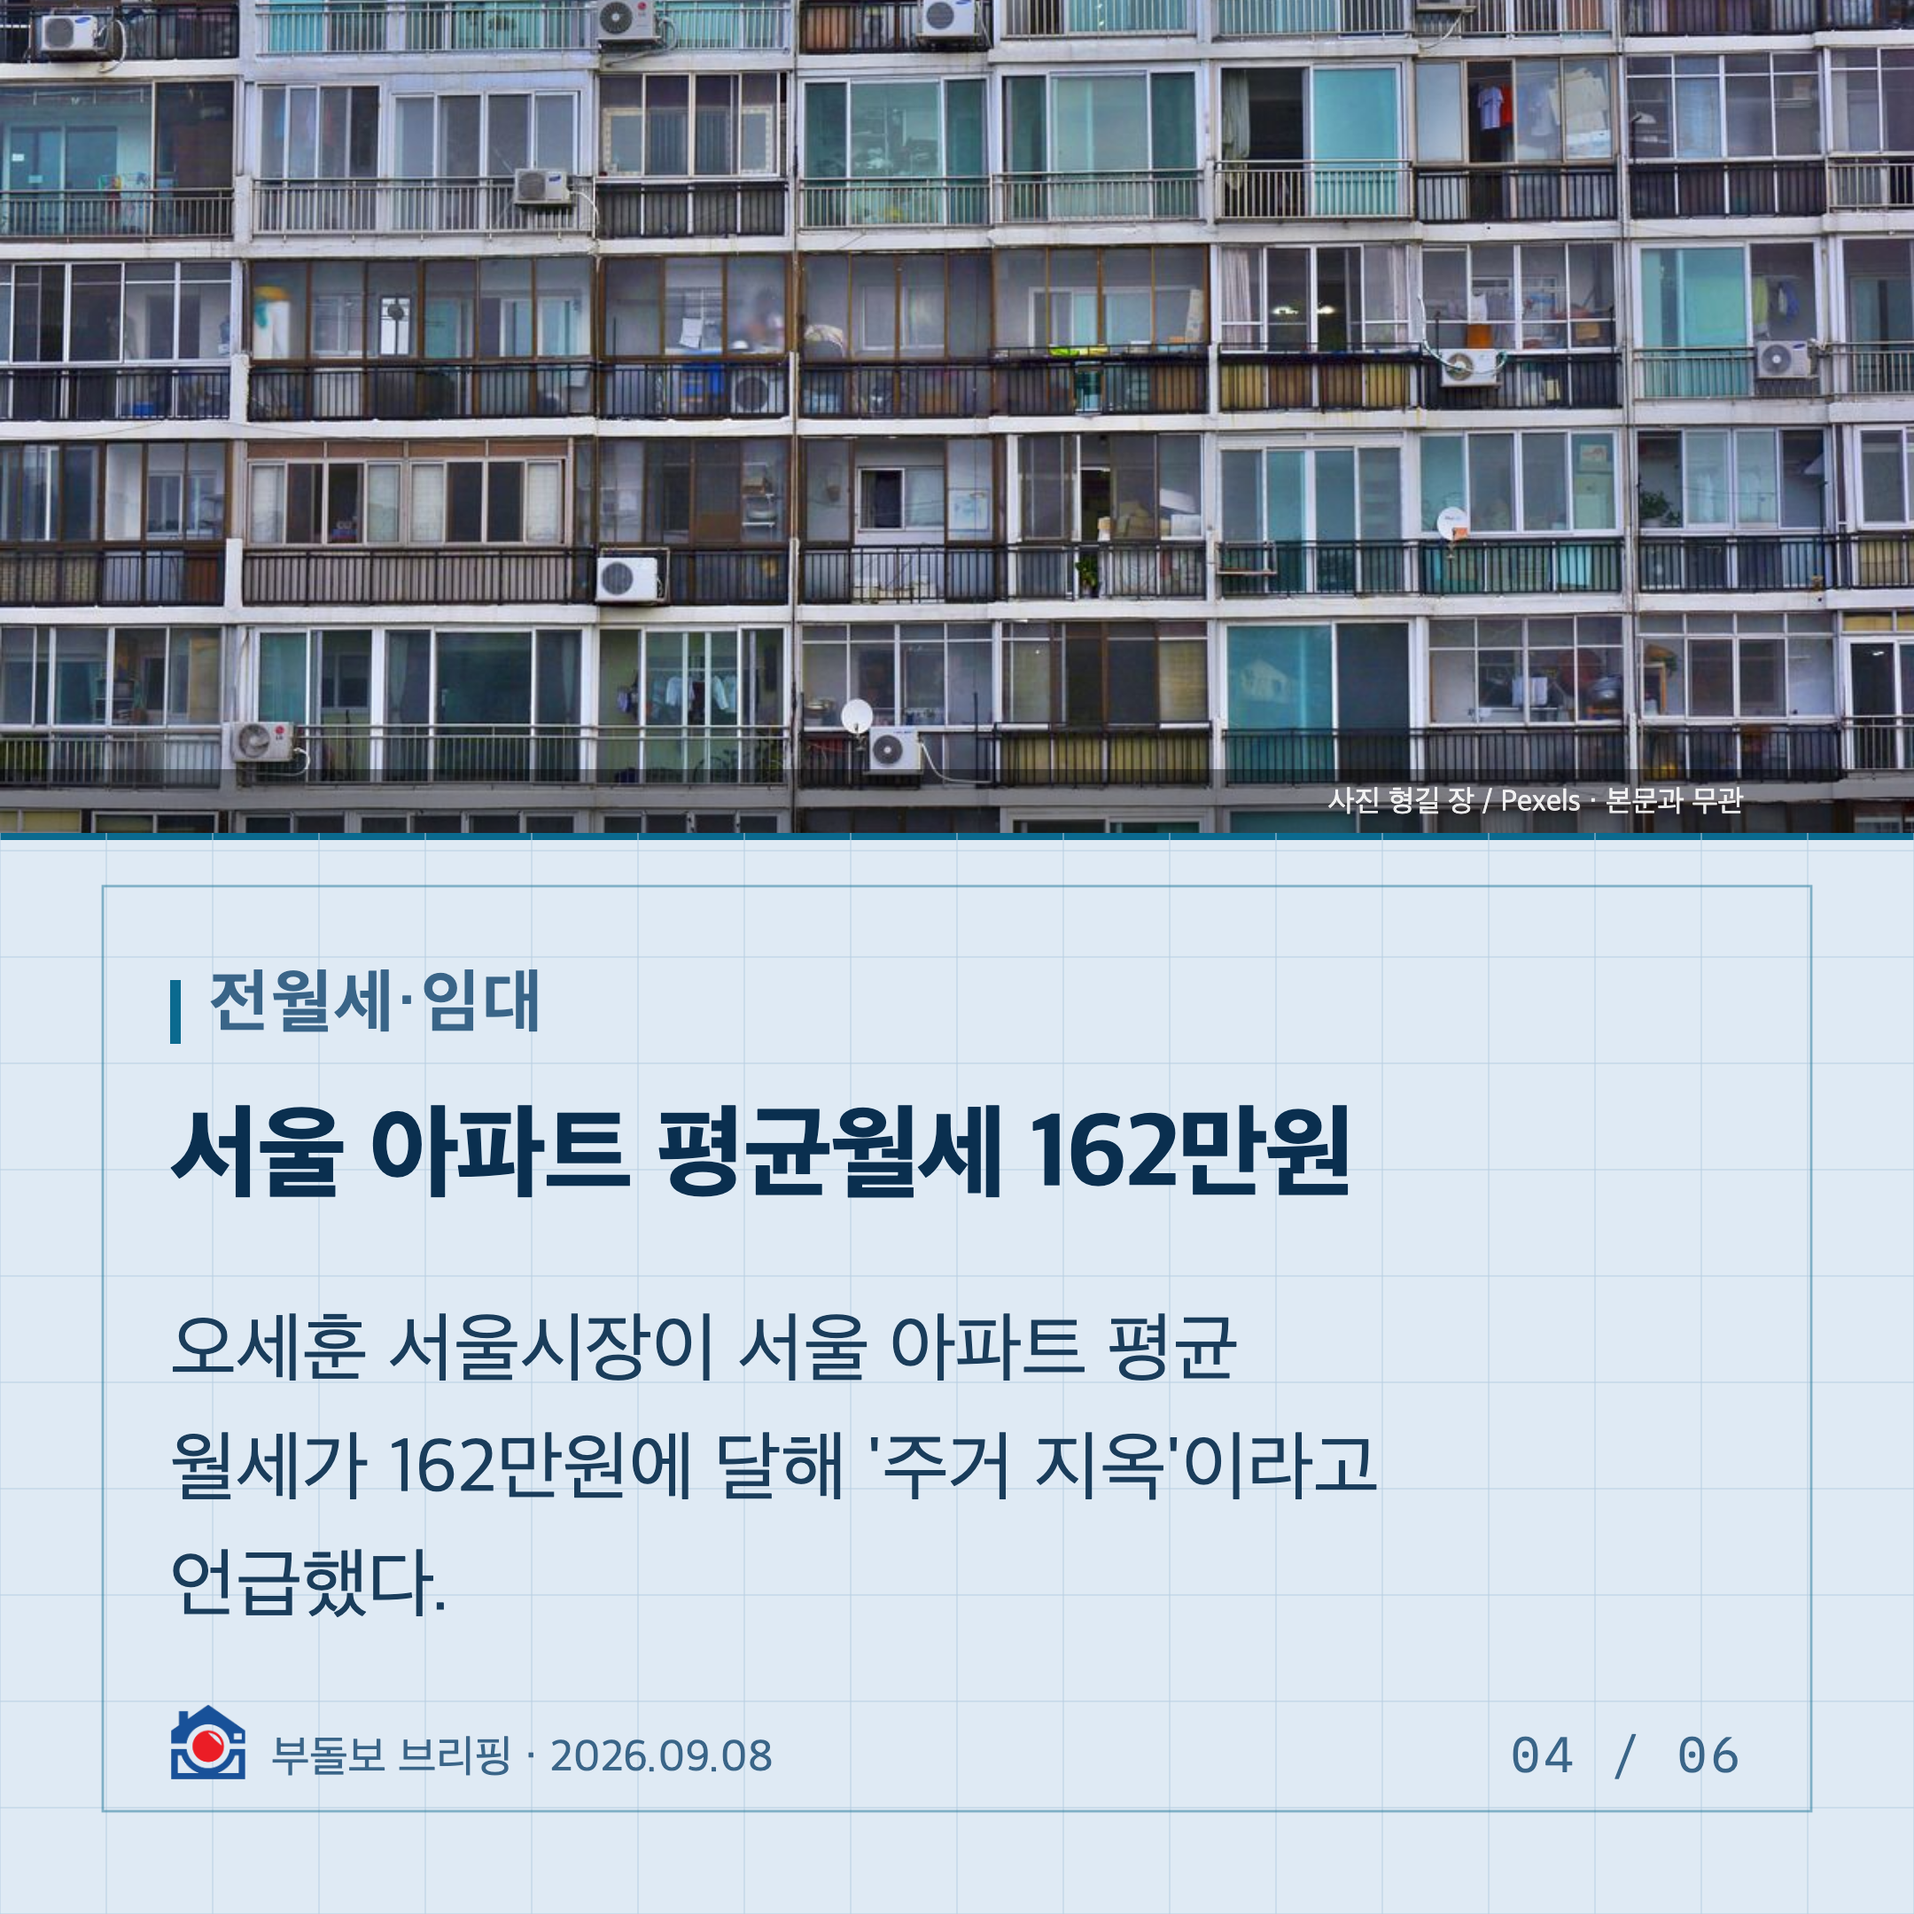
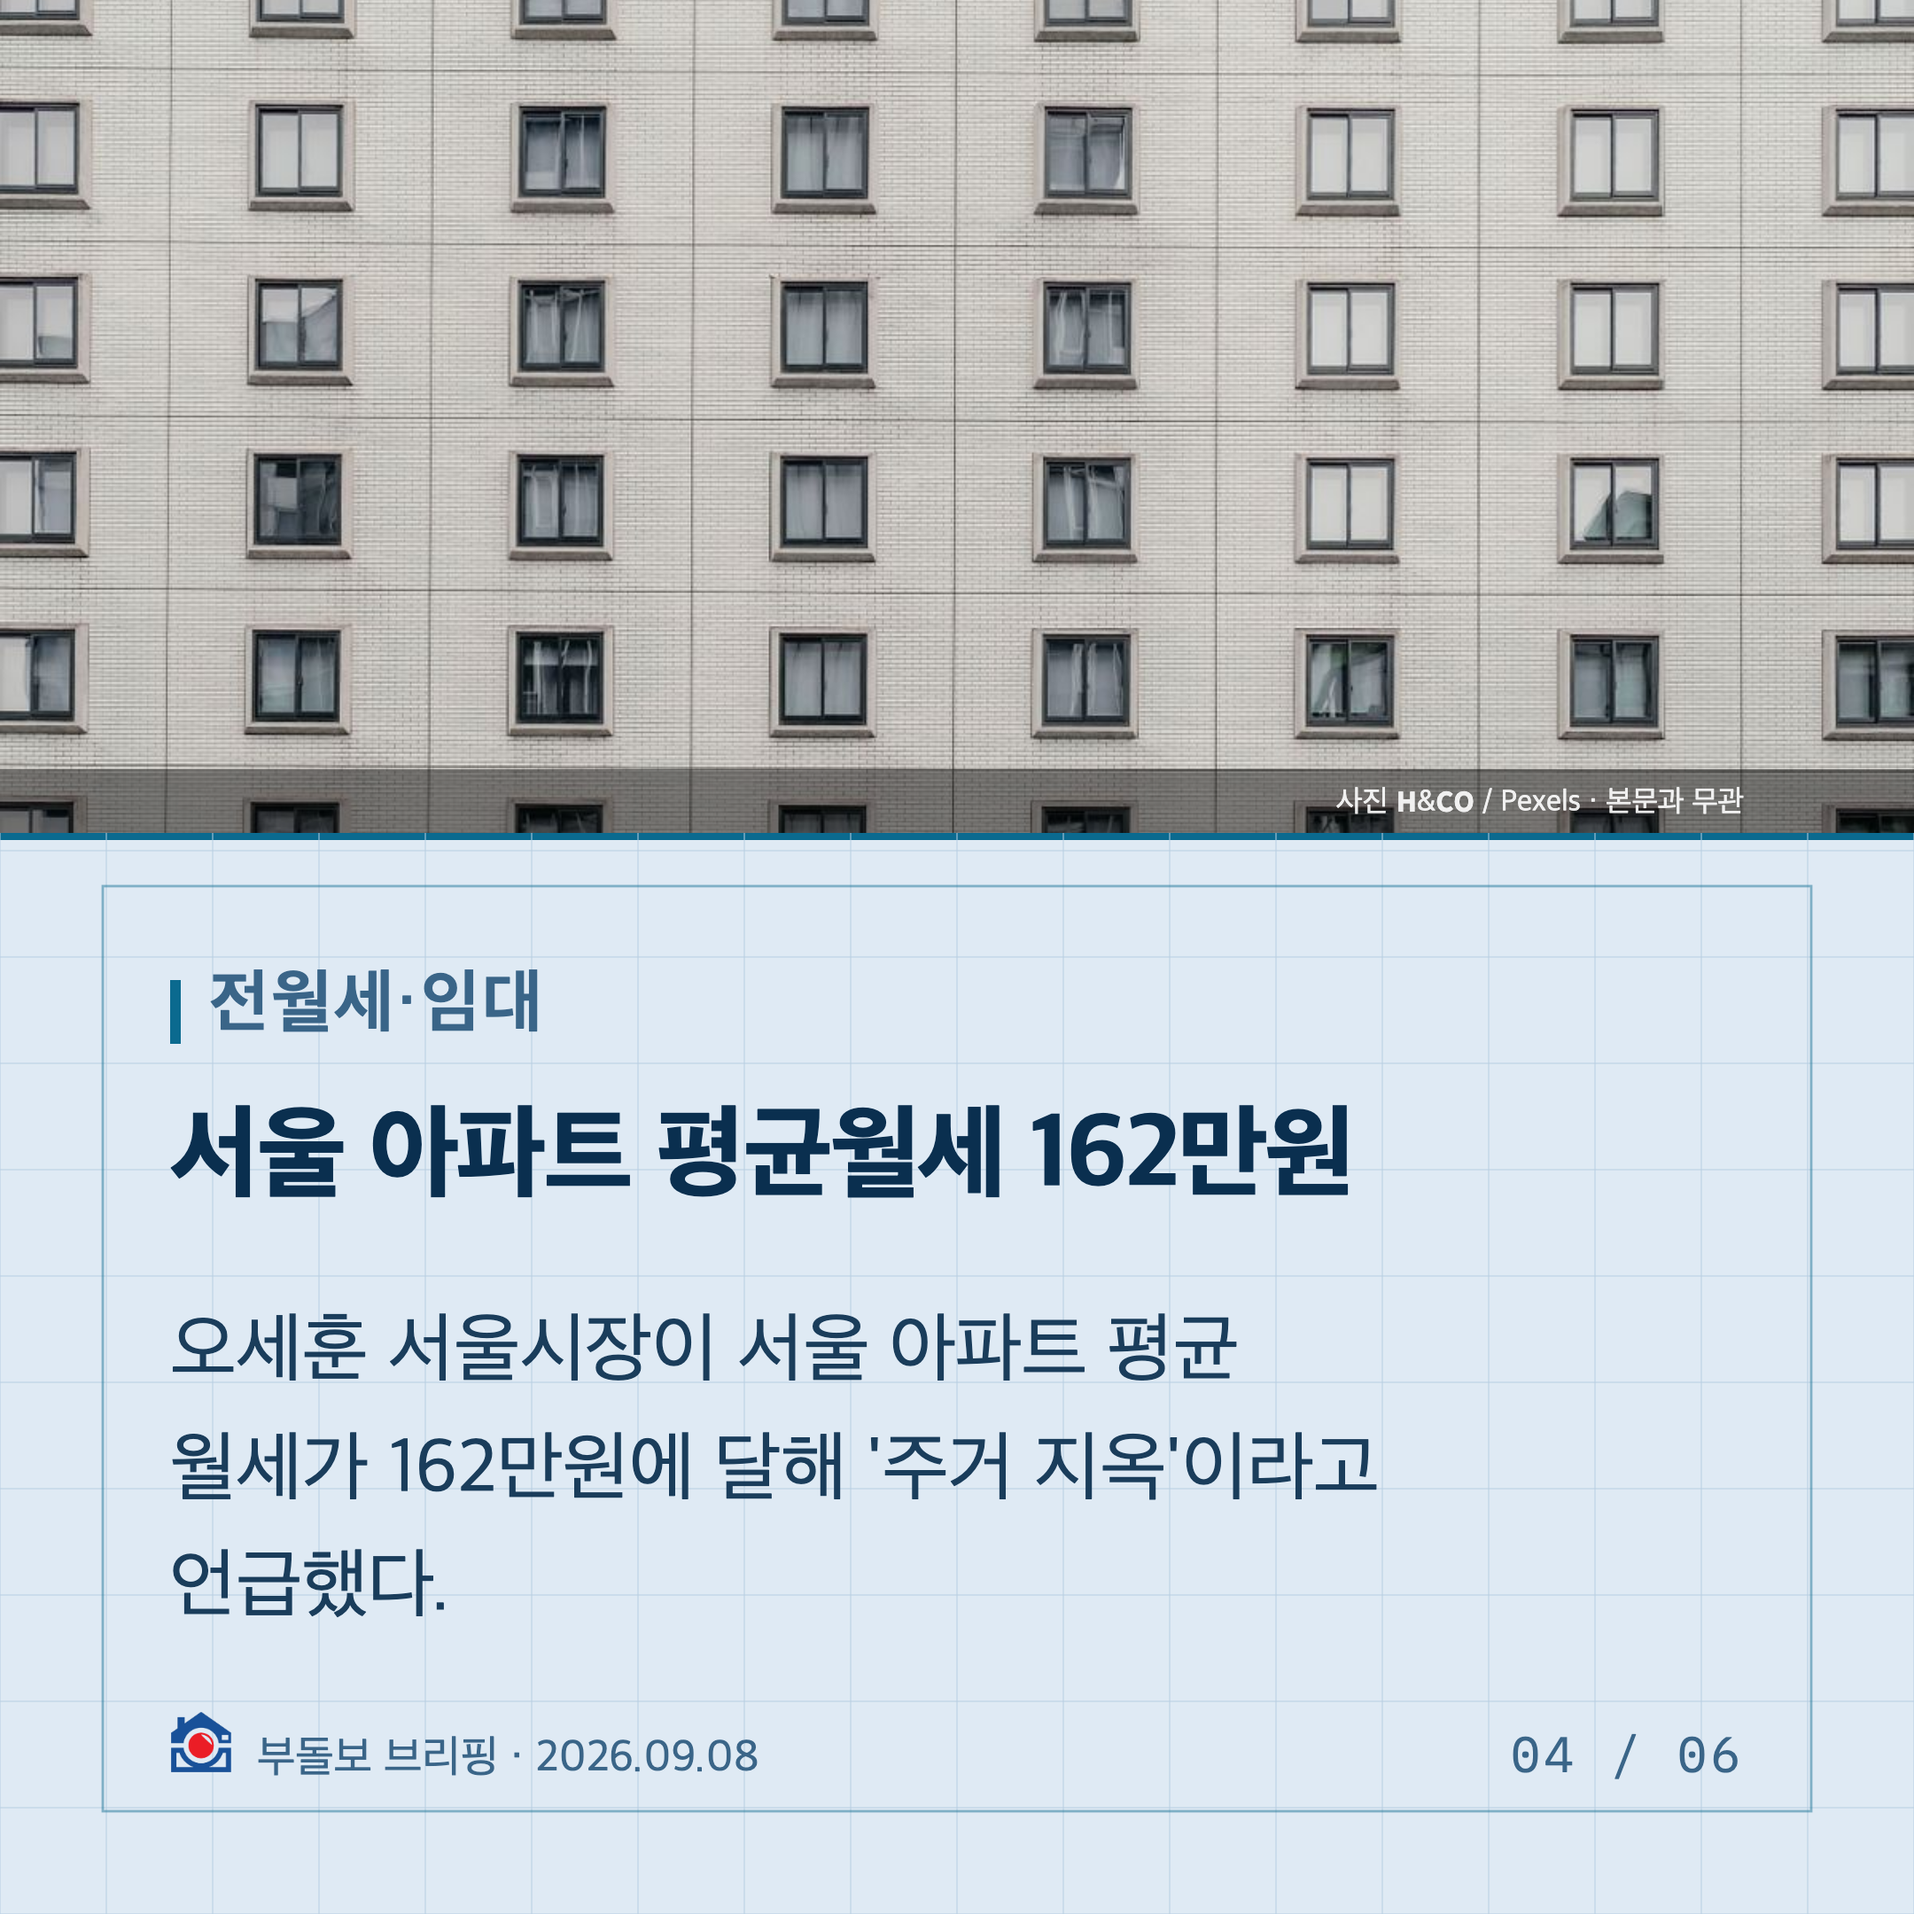
카드 머리글 로고를 80% 로 줄임
- 머리글 44px → 35px, 그림카드 아래 42px → 34px (사용자 지시)
- y 값을 함께 옮겨 글자 가운데선은 그대로 둠

diff --git a/rebrief/images.py b/rebrief/images.py
@@ -1500,7 +1500,8 @@ def _card_frame(face: tuple, n: int, total: int, *, date: str = "", channel: str
         if date:
             meta.append(esc(date.replace("-", ".")))
         if meta:
-            mark, used = _logo_tag(96, h - 118, 42, white=ground != CARD_PAPER[0])
+            # 글자 높이의 80% (2026-09-08 사용자 지시). y 는 옛 가운데선(983)에 맞춥니다.
+            mark, used = _logo_tag(96, h - 114, 34, white=ground != CARD_PAPER[0])
             p.append(mark)
             p.append(f'<text x="{96 + (used + 14 if used else 0):.0f}" y="{h-80}" font-size="25" '
                      f'fill="{dim}">{" · ".join(meta)}</text>')
@@ -1509,7 +1510,8 @@ def _card_frame(face: tuple, n: int, total: int, *, date: str = "", channel: str
         p.append(f'<rect x="58" y="58" width="{w-116}" height="{h-116}" fill="none" '
                  f'stroke="{signal}" stroke-width="1.4" opacity="0.45"/>')
         if channel:
-            mark, used = _logo_tag(96, 66, 44, white=True)
+            # 글자 높이의 80% (2026-09-08 사용자 지시). y 는 옛 가운데선(88)에 맞춥니다.
+            mark, used = _logo_tag(96, 70, 35, white=True)
             p.append(mark)
             p.append(f'<text x="{96 + (used + 14 if used else 0):.0f}" y="102" font-size="28" '
                      f'font-weight="700" letter-spacing="1" fill="{ink}">{esc(channel)}</text>')
